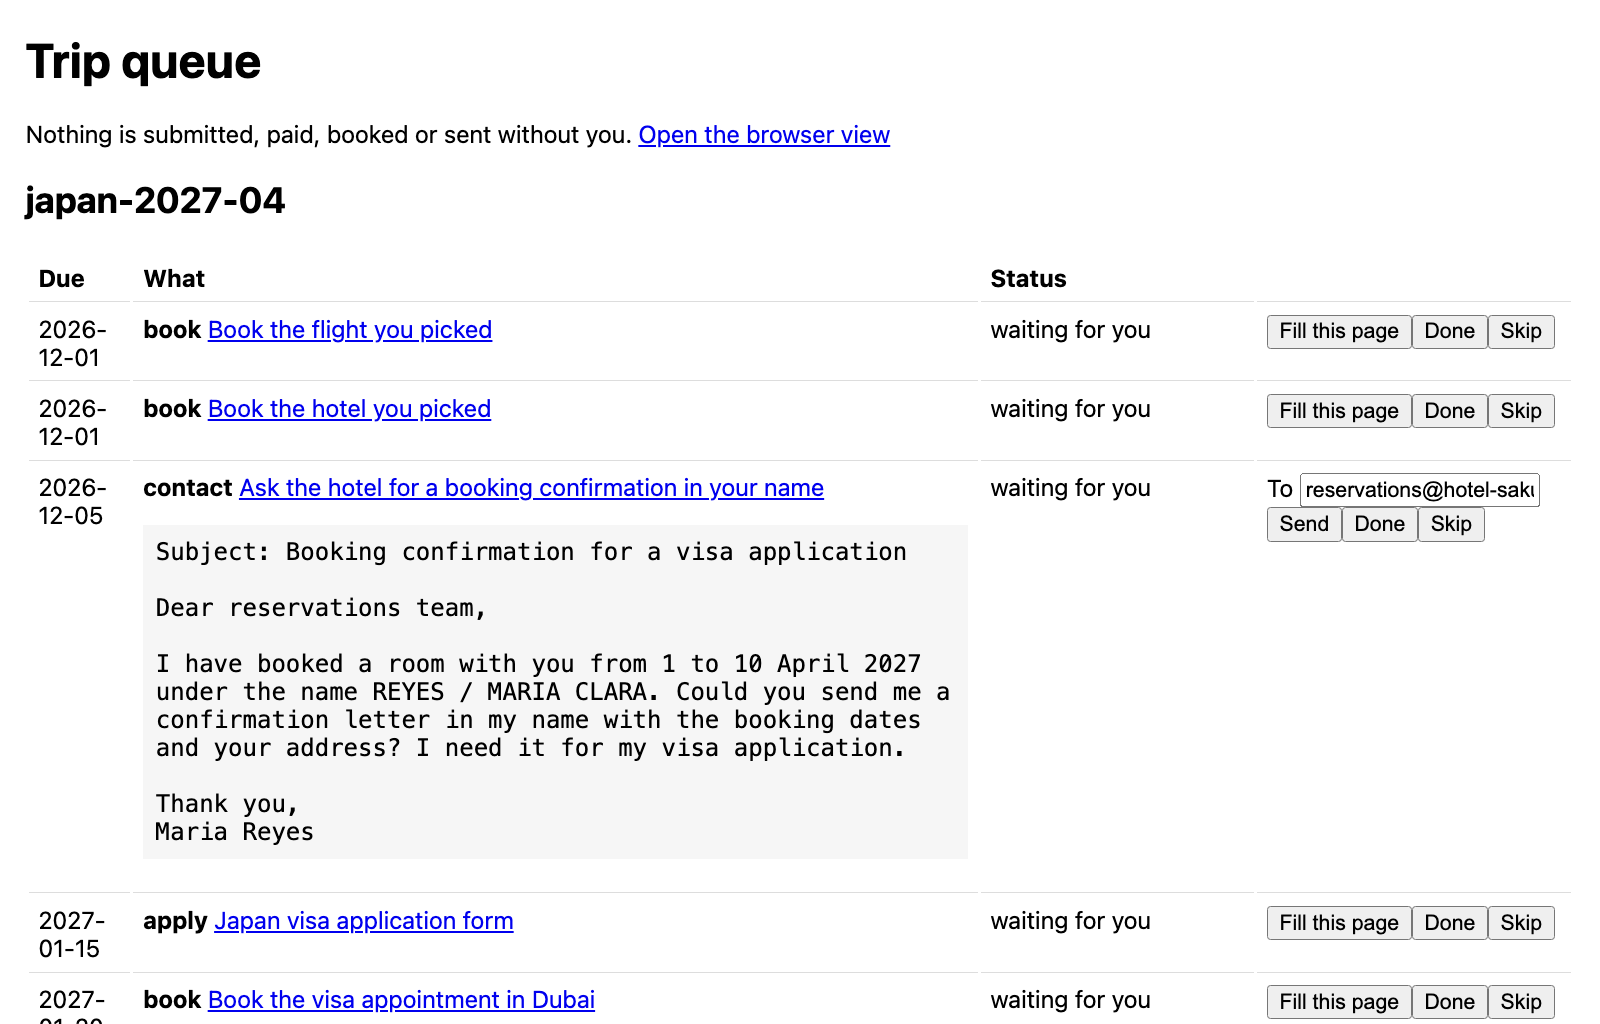
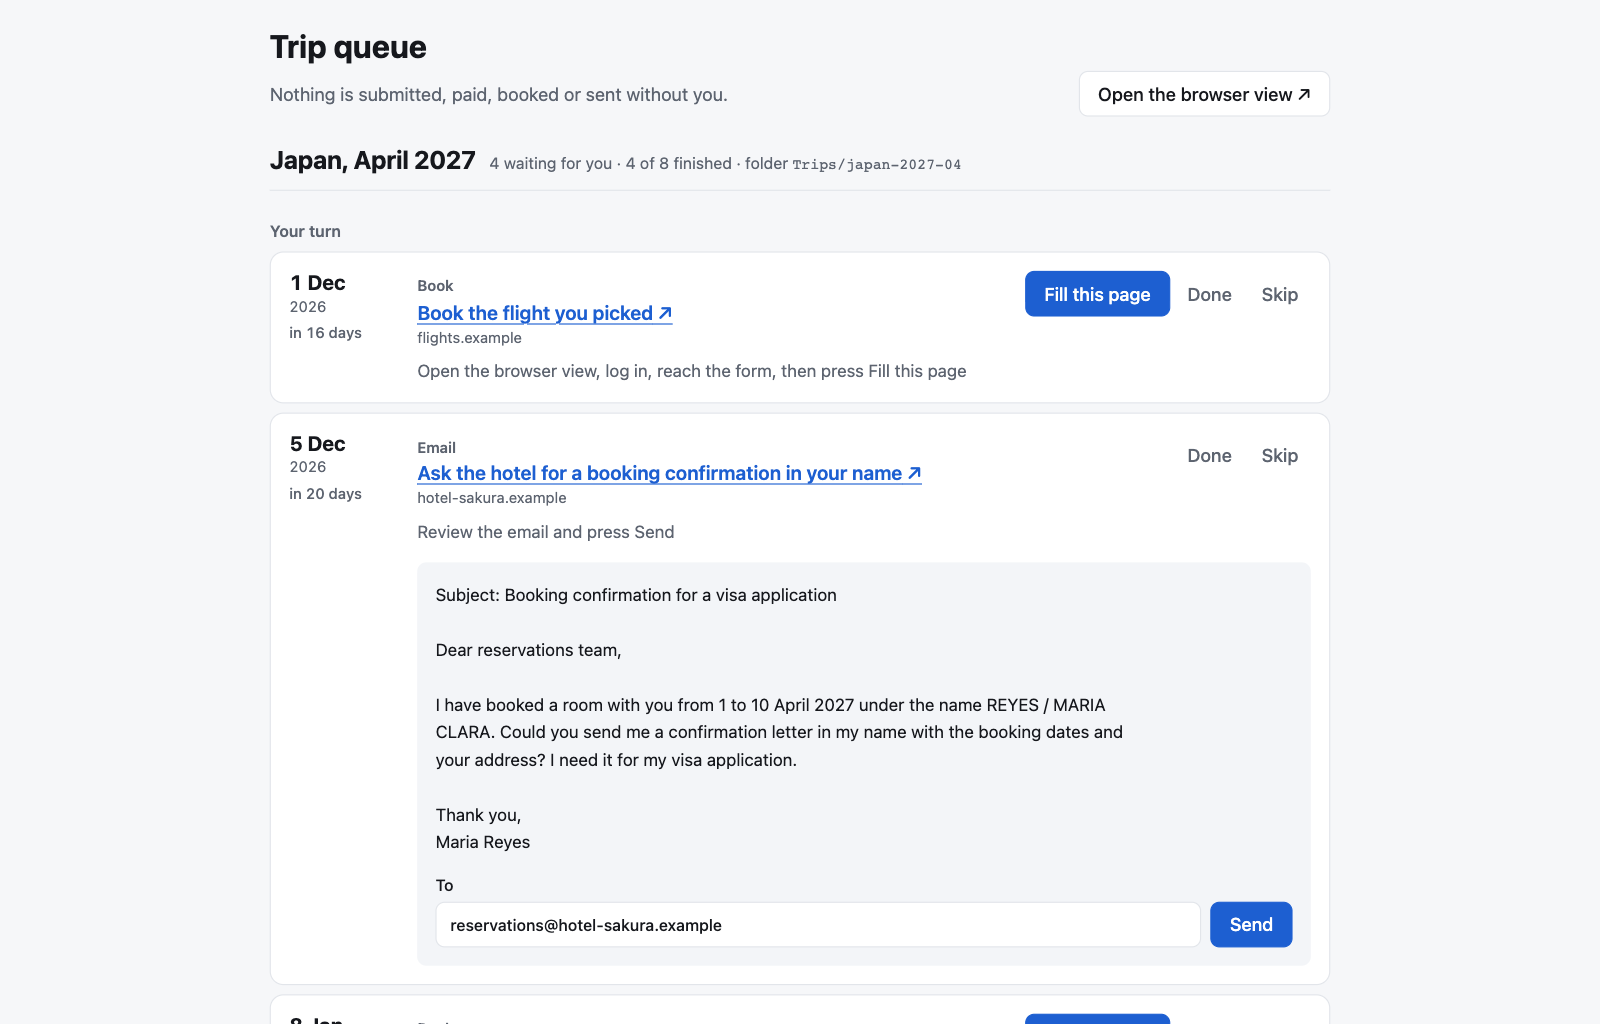
Video and gallery show the new queue page
Queue scene re-rendered (frames 4834-5142) and spliced into maria-steps.mp4
with the original audio; callout boxes moved to the new safety line, Fill this
page and Send. 3:2 gallery image for Devpost.

diff --git a/submission/video/src/stories/mariaSteps.ts b/submission/video/src/stories/mariaSteps.ts
@@ -172,9 +172,9 @@ export const mariaSteps: StepsStory = {
     {
       kind: 'shot', short: 'Queue page', who: 'companion', title: 'The queue page on the NAS', src: 'shots/queue-page.png', width: 1600, height: 1024,
       boxes: [
-        {x: 26, y: 112, w: 610, h: 42, label: 'Nothing goes out without her, and the page says so'},
-        {x: 1267, y: 315, w: 145, h: 34, label: 'Fill this page types her answers into the form she has open'},
-        {x: 1267, y: 507, w: 75, h: 34, label: 'Send is the only way an email leaves'},
+        {x: 262, y: 74, w: 474, h: 39, label: 'Nothing goes out without her, and the page says so'},
+        {x: 1019, y: 265, w: 157, h: 58, label: 'Fill this page types her answers into the form she has open'},
+        {x: 1204, y: 896, w: 94, h: 58, label: 'Send is the only way an email leaves'},
       ],
     },
     {
